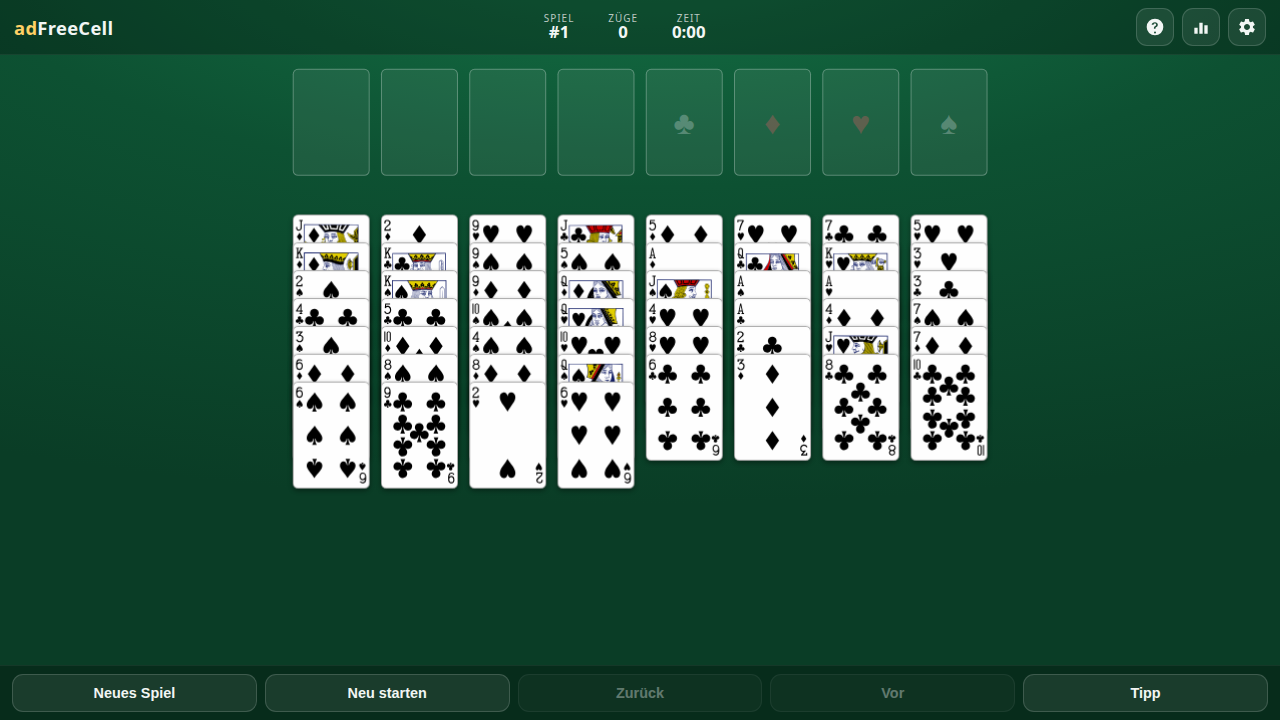
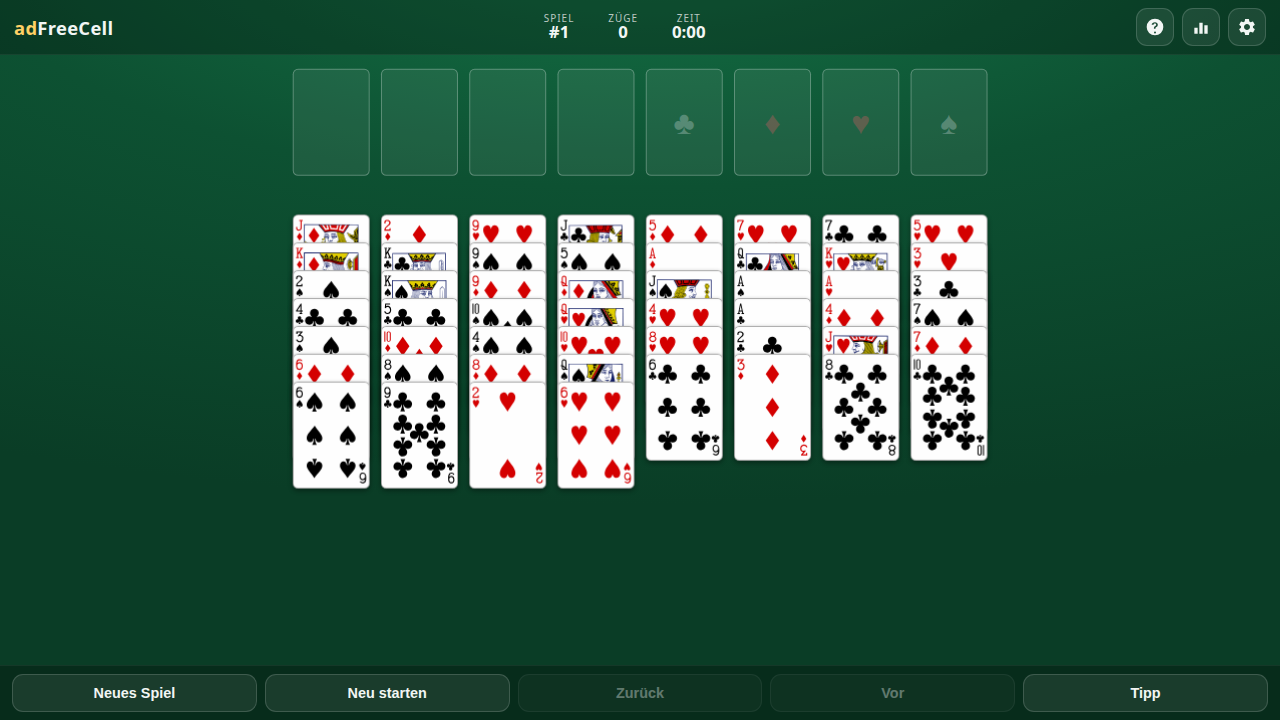
Fix: red suits rendered black in the new deck
The card sources put the red colour (fill="#d40000") on the root <svg> element,
which the pip/numeral paths inherit. tools/build-cards.js stripped the root
<svg> when wrapping each card in a <g>, so hearts and diamonds fell back to the
default black. Carry the root's presentation attributes (fill, etc.) onto the
<g> so the red suits render red again. Regenerate cards-sprite.js and the
README screenshots; bump service-worker cache to adfreecell-v4.

diff --git a/tools/build-cards.js b/tools/build-cards.js
@@ -20,9 +20,26 @@ const OUT = path.join(__dirname, '..', 'js', 'cards-sprite.js');
 const RANKS = [1, 2, 3, 4, 5, 6, 7, 8, 9, 10, 11, 12, 13];
 const SUITS = ['c', 'd', 'h', 's'];
 
+// Presentation attributes on the root <svg> (crucially `fill`, which is red for
+// hearts/diamonds) are inherited by the child paths. When we drop the root <svg>
+// we must re-apply them to the wrapping <g>, or the red suits fall back to black.
+const DROP_ATTRS = new Set([
+  'version', 'baseProfile', 'xmlns', 'xmlns:xlink', 'viewBox',
+  'width', 'height', 'x', 'y', 'id', 'preserveAspectRatio',
+]);
+function carryAttrs(openTag) {
+  const attrs = openTag.replace(/^<svg/, '').replace(/>$/, '');
+  const out = [];
+  const re = /([a-zA-Z_:][-a-zA-Z0-9_:.]*)\s*=\s*"([^"]*)"/g;
+  let m;
+  while ((m = re.exec(attrs))) if (!DROP_ATTRS.has(m[1])) out.push(`${m[1]}="${m[2]}"`);
+  return out.length ? ' ' + out.join(' ') : '';
+}
+
 function buildGroup(name) {
   const file = path.join(CARDS_DIR, name + '.svg');
   let svg = fs.readFileSync(file, 'utf8');
+  const openTag = (svg.match(/<svg[^>]*>/) || ['<svg>'])[0];
   // keep only the inner content of the root <svg>…</svg>
   let inner = svg.replace(/^[\s\S]*?<svg[^>]*>/, '').replace(/<\/svg>\s*$/, '');
   // namespace the two shared ids and every reference to them
@@ -31,7 +48,7 @@ function buildGroup(name) {
     .replace(/id="numeral"/g, `id="${name}_numeral"`)
     .replace(/#suit/g, `#${name}_suit`)
     .replace(/#numeral/g, `#${name}_numeral`);
-  return `<g id="card_${name}">${inner}</g>`;
+  return `<g id="card_${name}"${carryAttrs(openTag)}>${inner}</g>`;
 }
 
 const groups = [];

diff --git a/sw.js b/sw.js
@@ -1,7 +1,7 @@
 /* adFreeCell - service worker for offline play (PWA).
    Cache-first for the app shell so the game works with no network. Bump
    CACHE_VERSION whenever assets change to roll the cache. */
-const CACHE_VERSION = 'adfreecell-v3';
+const CACHE_VERSION = 'adfreecell-v4';
 
 const ASSETS = [
   './',